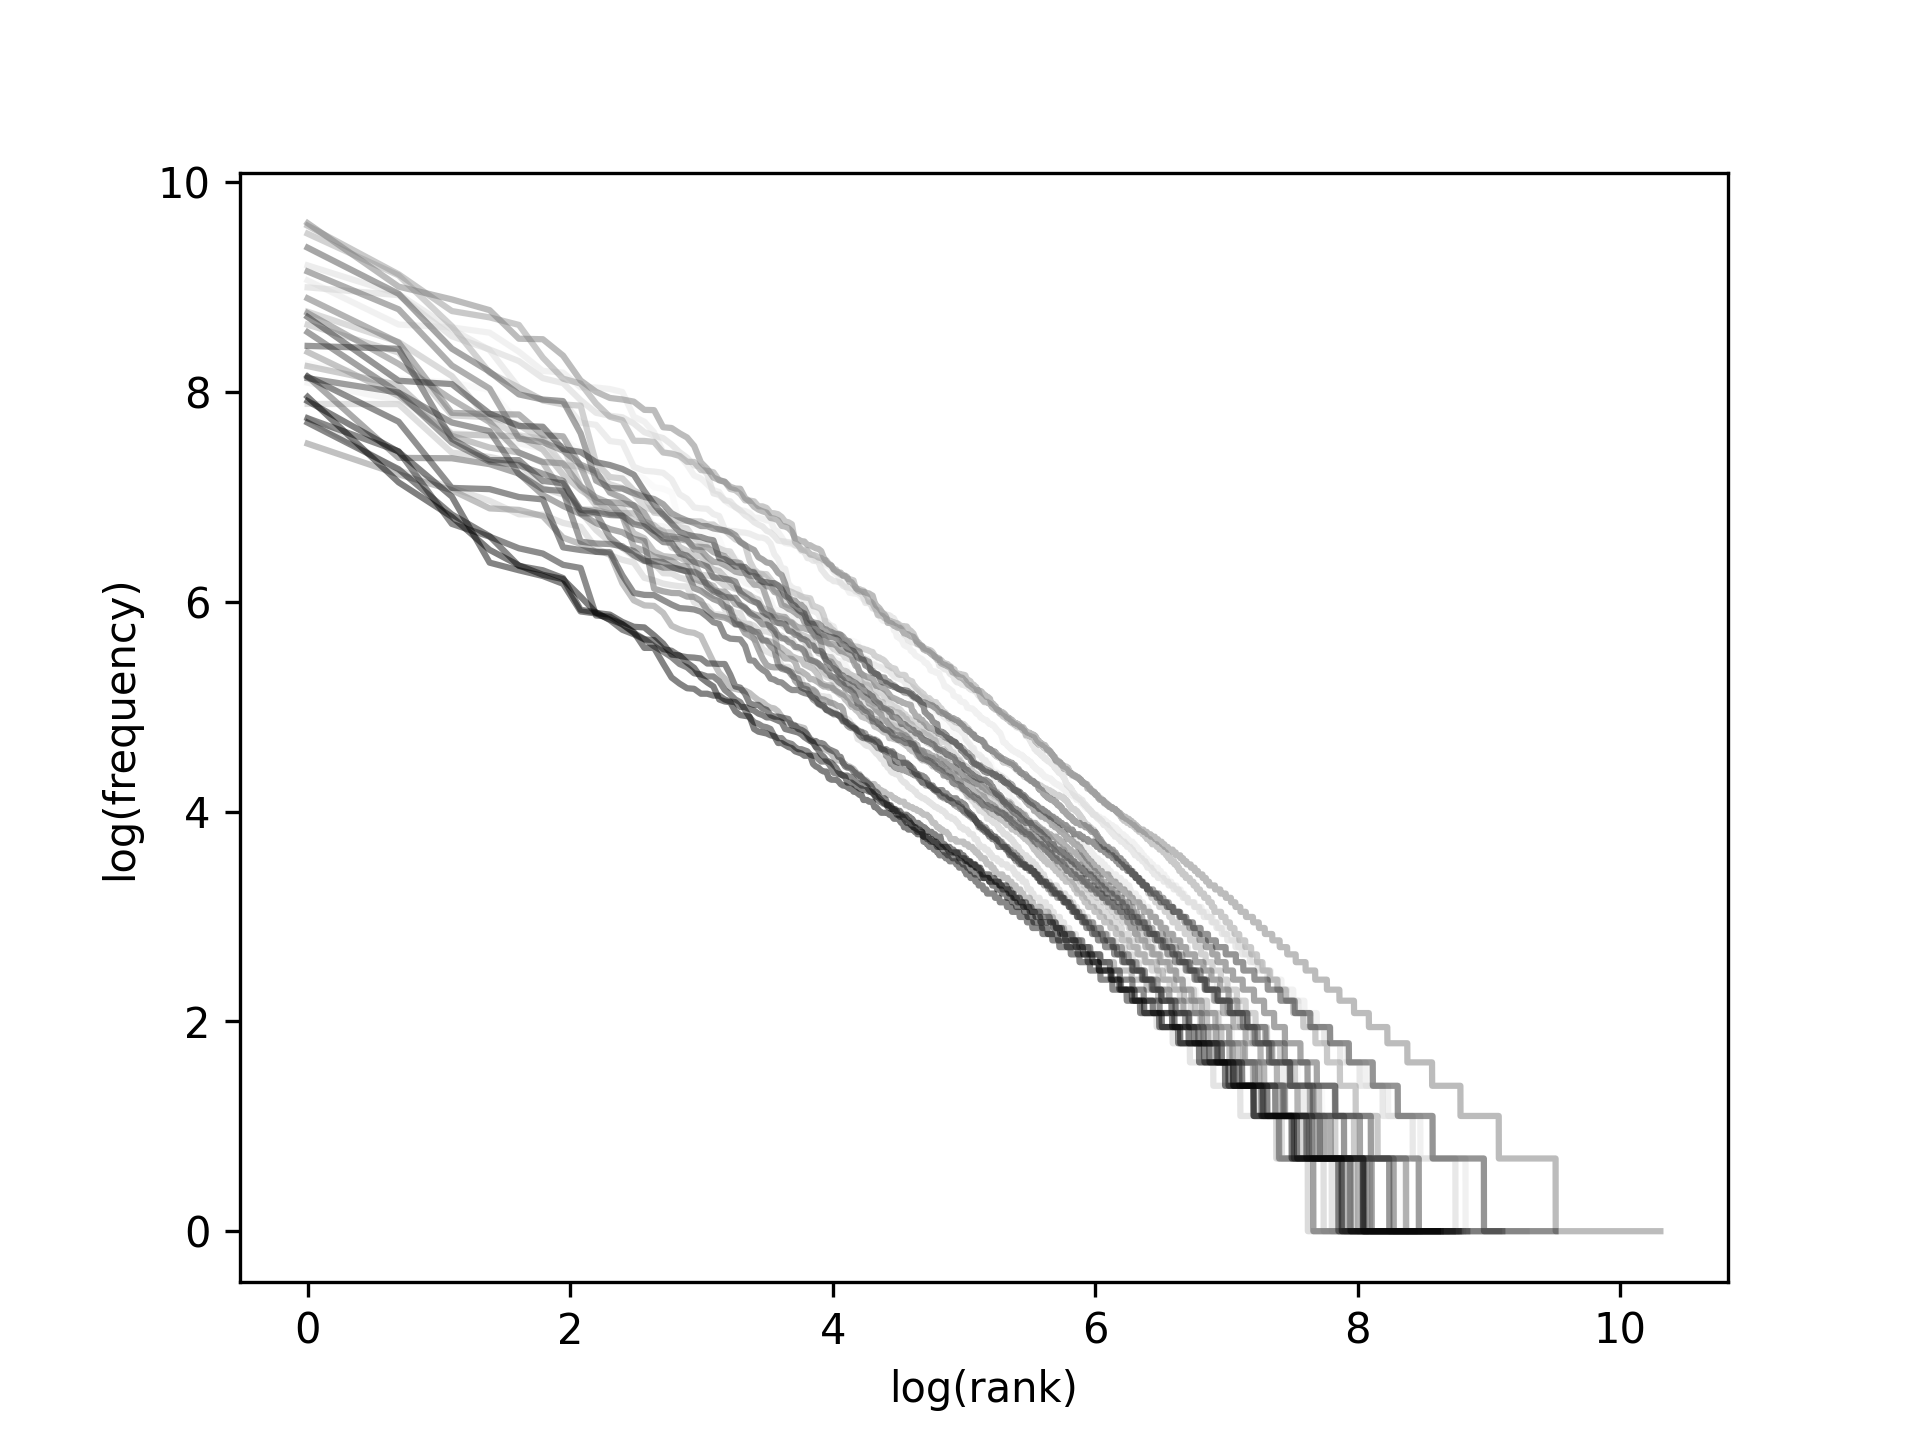
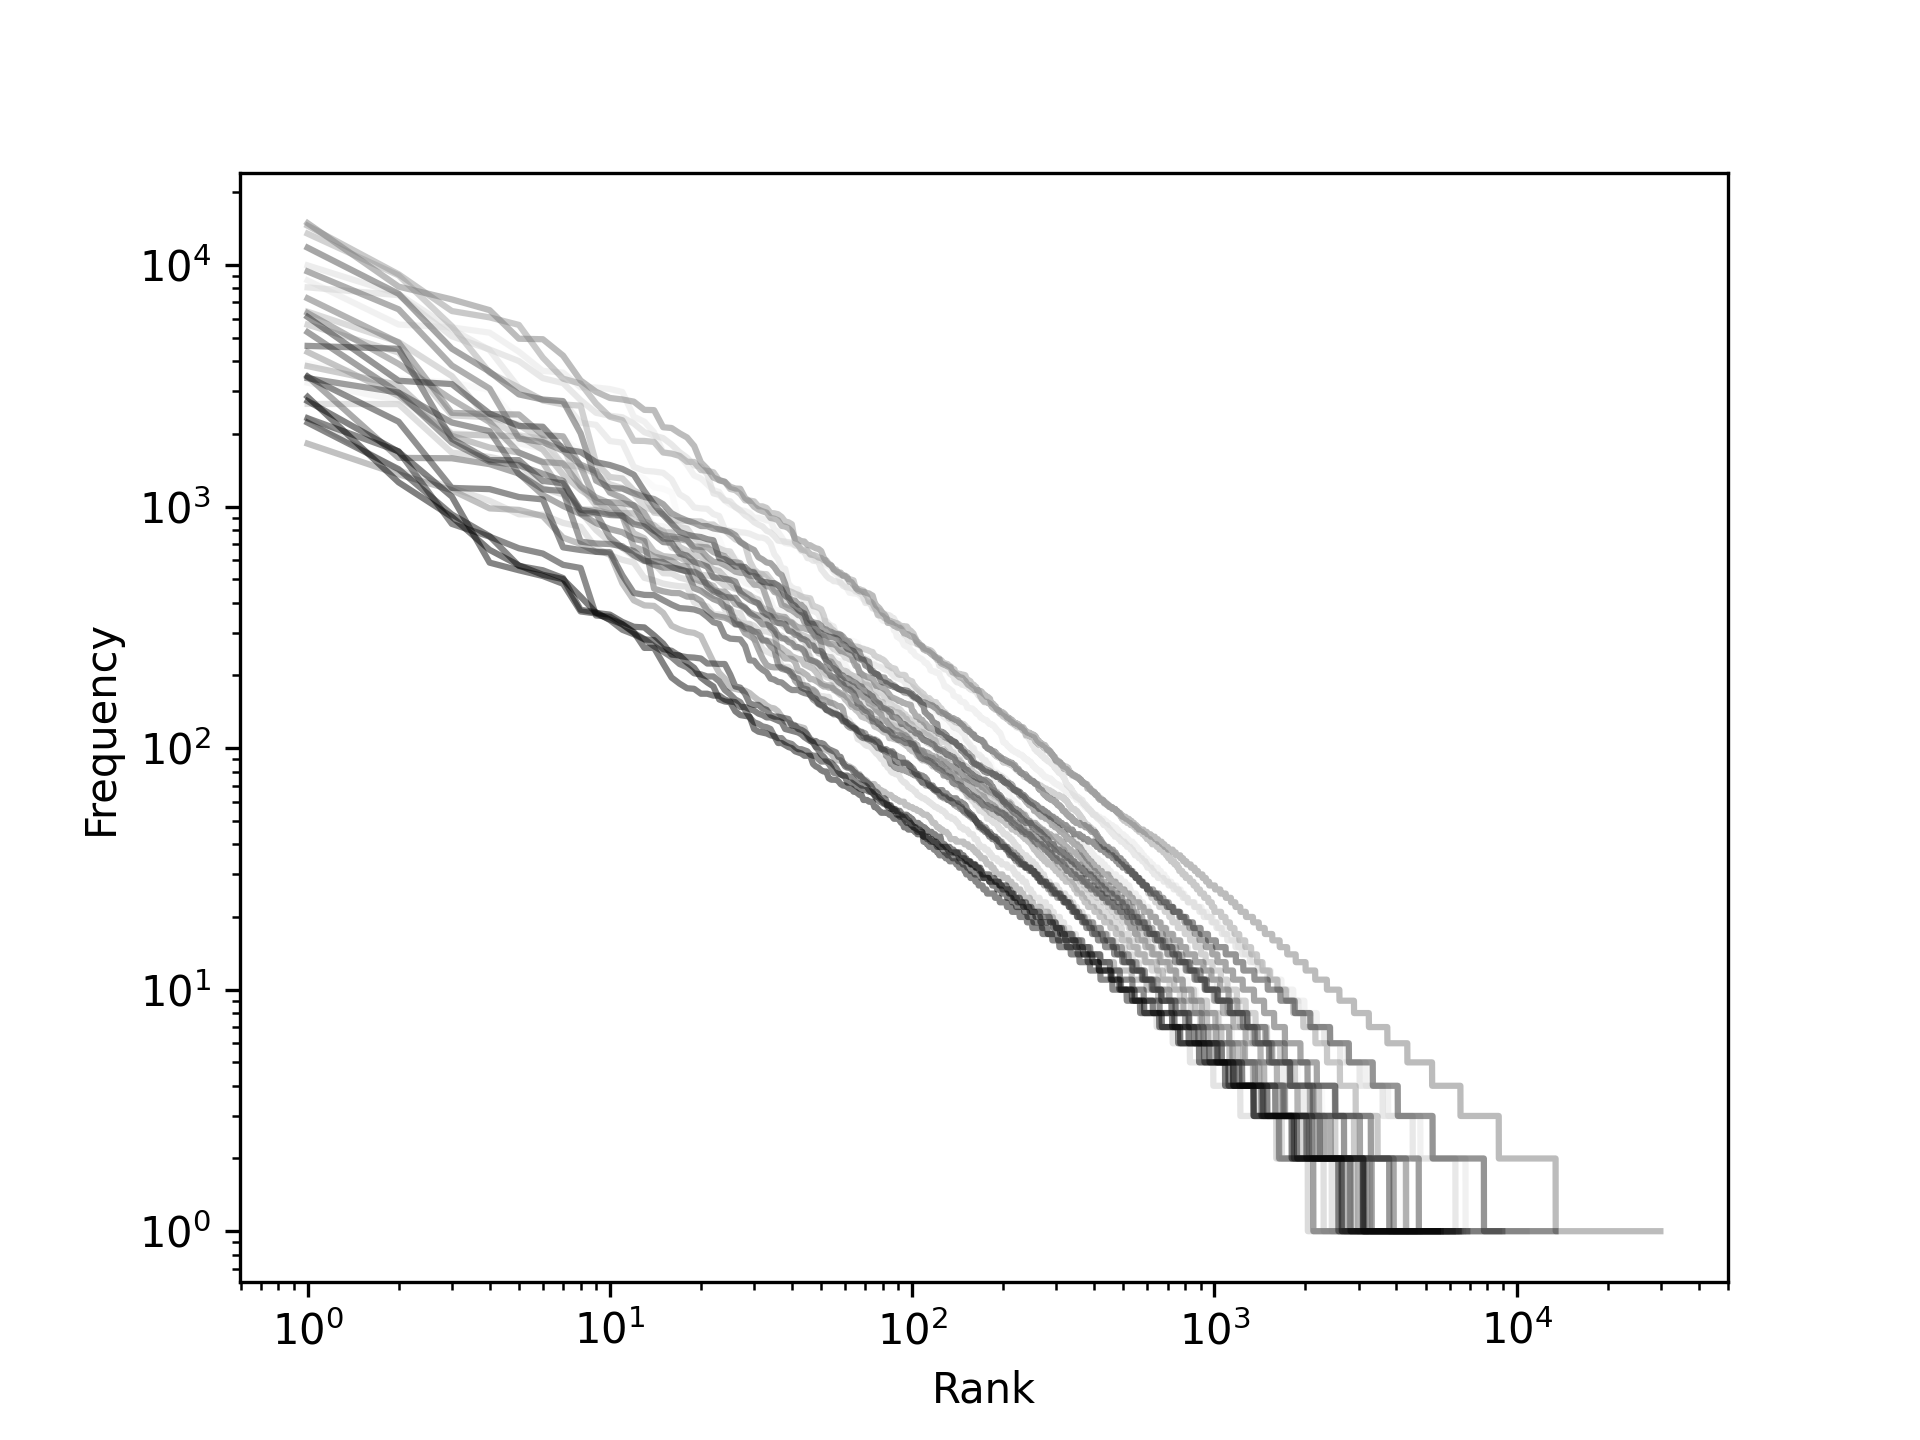
plot new scale on real to artificial

diff --git a/src/artificial_corpora_interpolate.py b/src/artificial_corpora_interpolate.py
@@ -41,13 +41,10 @@ for i, name in enumerate(sorted_names):
     sample = tokenize(content.lower())
     counter = Counter(sample)
     ranks, frequencies, zipf_params = counter_to_zipf_data(counter)
-    real_ax.plot(np.log(ranks), np.log(frequencies), color=color_map(i), 
-                 alpha=0.5)
-    predicted_log_freq = np.exp(np.log(ranks + zipf_params[1])*zipf_params[0])
-    predicted_log_freq = np.log(predicted_log_freq / sum(predicted_log_freq) \
-        * sum(frequencies))
-    esti_ax.plot(np.log(ranks), predicted_log_freq, color=color_map(i),
-                 alpha=0.5)
+    real_ax.plot(ranks, frequencies, color=color_map(i), alpha=0.5)
+    predicted_freq = np.exp(np.log(ranks + zipf_params[1])*zipf_params[0])
+    predicted_freq = predicted_freq / sum(predicted_freq)*sum(frequencies)
+    esti_ax.plot(ranks, predicted_freq, color=color_map(i), alpha=0.5)
     
 # Extract quantities of interest
 slopes = ld_stat_df["zipf_slope"].to_numpy()
@@ -68,8 +65,8 @@ slope_fig, slope_ax = plt.subplots()
 for i, tested_slope in enumerate(tested_slopes):
     predicted_freq = (tested_ranks + mean_shift)**tested_slope
     predicted_freq = predicted_freq / sum(predicted_freq) * mean_length 
-    slope_ax.plot(np.log(tested_ranks), np.log(predicted_freq), 
-                  color=color_map(i), alpha=0.5)
+    slope_ax.plot(tested_ranks, predicted_freq, color=color_map(i), 
+                  alpha=0.5)
     
 # The shift space 
 tested_shifts = np.linspace(np.min(shifts), np.max(shifts), 
@@ -78,8 +75,7 @@ shift_fig, shift_ax = plt.subplots()
 for i, tested_shift in enumerate(tested_shifts):
     predicted_freq = (tested_ranks + tested_shift)**mean_slope
     predicted_freq = predicted_freq / sum(predicted_freq) * mean_length 
-    shift_ax.plot(np.log(tested_ranks), np.log(predicted_freq), 
-                  color=color_map(i), alpha=0.5)
+    shift_ax.plot(tested_ranks, predicted_freq, color=color_map(i), alpha=0.5)
     
 # The variety 
 tested_varieties = np.linspace(ld_stat_df["variety"].min(), 
@@ -90,8 +86,7 @@ for i, tested_variety in enumerate(tested_varieties):
     ranks = np.arange(1, tested_variety+1)
     predicted_freq = (ranks + mean_shift)**mean_slope
     predicted_freq = predicted_freq / sum(predicted_freq) * mean_length 
-    variety_ax.plot(np.log(ranks), np.log(predicted_freq), 
-                    color=color_map(i), alpha=0.5)
+    variety_ax.plot(ranks, predicted_freq, color=color_map(i), alpha=0.5)
     
 # Update and save plots 
 plt.colorbar(cm.ScalarMappable(Normalize(np.min(tested_slopes), 
@@ -103,16 +98,26 @@ plt.colorbar(cm.ScalarMappable(Normalize(np.min(tested_shifts),
 plt.colorbar(cm.ScalarMappable(Normalize(np.min(tested_varieties), 
                                          np.max(tested_varieties)), 
                                cmap=color_map), ax=variety_ax, label="Variety")
-real_ax.set_xlabel("log(rank)")
-real_ax.set_ylabel("log(frequency)")
-esti_ax.set_xlabel("log(rank)")
-esti_ax.set_ylabel("log(frequency)")
-slope_ax.set_xlabel("log(rank)")
-slope_ax.set_ylabel("log(frequency)")
-shift_ax.set_xlabel("log(rank)")
-shift_ax.set_ylabel("log(frequency)")
-variety_ax.set_xlabel("log(rank)")
-variety_ax.set_ylabel("log(frequency)")
+real_ax.set_xlabel("Rank")
+real_ax.set_ylabel("Frequency")
+esti_ax.set_xlabel("Rank")
+esti_ax.set_ylabel("Frequency")
+slope_ax.set_xlabel("Rank")
+slope_ax.set_ylabel("Frequency")
+shift_ax.set_xlabel("Rank")
+shift_ax.set_ylabel("Frequency")
+variety_ax.set_xlabel("Rank")
+variety_ax.set_ylabel("Frequency")
+real_ax.set_xscale("log")
+real_ax.set_yscale("log")
+esti_ax.set_xscale("log")
+esti_ax.set_yscale("log")
+slope_ax.set_xscale("log")
+slope_ax.set_yscale("log")
+shift_ax.set_xscale("log")
+shift_ax.set_yscale("log")
+variety_ax.set_xscale("log")
+variety_ax.set_yscale("log")
 real_fig.savefig(f"{output_folder_path}/real_distrib.png", dpi=300)
 esti_fig.savefig(f"{output_folder_path}/interpolated_distrib.png", dpi=300)
 slope_fig.savefig(f"{output_folder_path}/slope_distrib.png", dpi=300)
